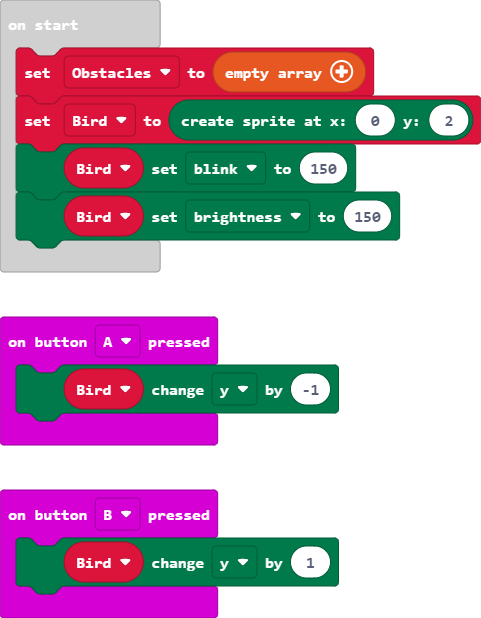
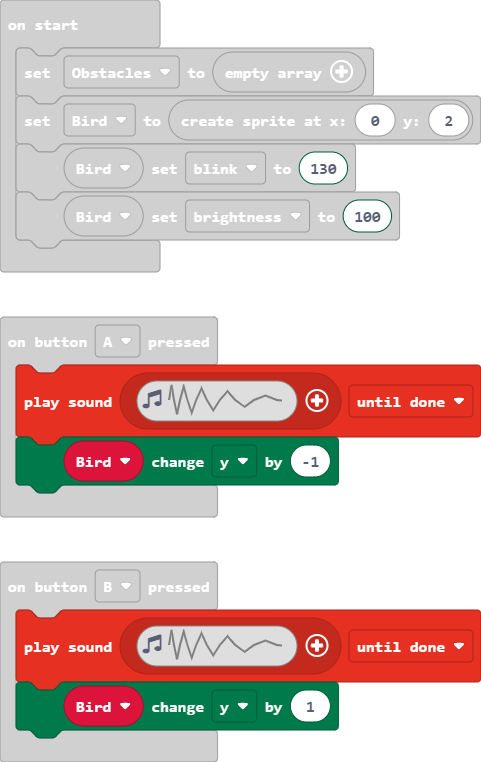
minor

diff --git a/main.ts b/main.ts
@@ -1,11 +1,13 @@
 input.onButtonPressed(Button.A, function () {
+    music.playSoundEffect(music.createSoundEffect(WaveShape.Triangle, 5000, 0, 255, 0, 100, SoundExpressionEffect.None, InterpolationCurve.Linear), SoundExpressionPlayMode.UntilDone)
     Bird.change(LedSpriteProperty.Y, -1)
 })
 input.onButtonPressed(Button.B, function () {
+    music.playSoundEffect(music.createSoundEffect(WaveShape.Triangle, 5000, 0, 255, 0, 100, SoundExpressionEffect.None, InterpolationCurve.Linear), SoundExpressionPlayMode.UntilDone)
     Bird.change(LedSpriteProperty.Y, 1)
 })
 let Bird: game.LedSprite = null
 let Obstacles: number[] = []
 Bird = game.createSprite(0, 2)
-Bird.set(LedSpriteProperty.Blink, 150)
-Bird.set(LedSpriteProperty.Brightness, 150)
+Bird.set(LedSpriteProperty.Blink, 130)
+Bird.set(LedSpriteProperty.Brightness, 100)
